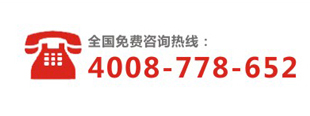
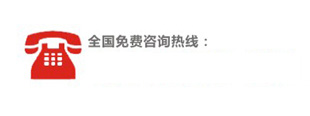
modify393958

Changed region(s): [[0.5516, 0.4655, 0.9581, 0.6724], [0.2613, 0.4655, 0.5516, 0.6724]]

diff --git a/SunShine.Web/Css/Bootstrap/home.css b/SunShine.Web/Css/Bootstrap/home.css
@@ -805,7 +805,7 @@ ul.thirdLevel {
 .category_box {
     border: 1px solid #C0C0C0;
     width: 1024px;
-    margin: 20px auto;
+    margin: 20px auto 0;
 }
     .category_box .category_header {
         font-size:22px;
@@ -962,7 +962,8 @@ ul.thirdLevel {
 
     .logo{width:690px ;height:116px;float:left}
     .telephonenumber{width:310px;height:116px;float:left;background:url(../../Images/home/fgz_06.jpg) no-repeat}
-    .telephonenumber p{font-size:28px;color:#e51d1f;font-weight:bold;margin-top:80px;margin-left:90px;letter-spacing:1px}
+    .telephonenumber .guhua{;margin-top:-5px;}
+    .telephonenumber .guhua_shouji{font-size:20px;color:#e51d1f;font-weight:bold;margin-top:50px;margin-left:90px;letter-spacing:1px}
 
     
 

diff --git a/SunShine.Web/Css/public.css b/SunShine.Web/Css/public.css
@@ -554,3 +554,5 @@
     text-align: center;
     padding: 20px 0;
 }
+
+.fuwuliucheng_home {width:1022px;margin:0 auto;text-align: center;}
